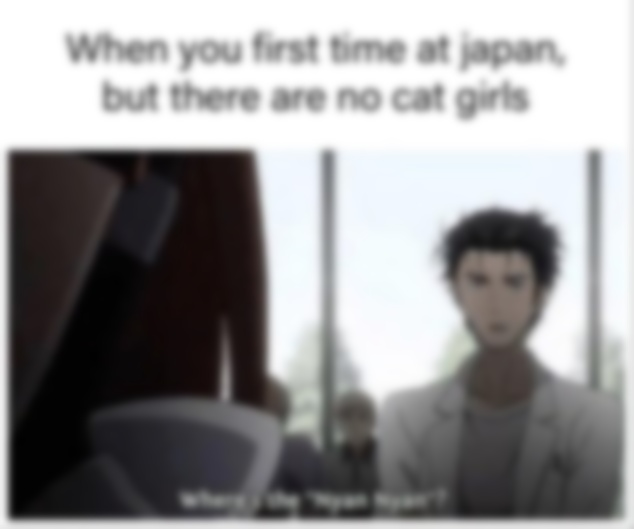
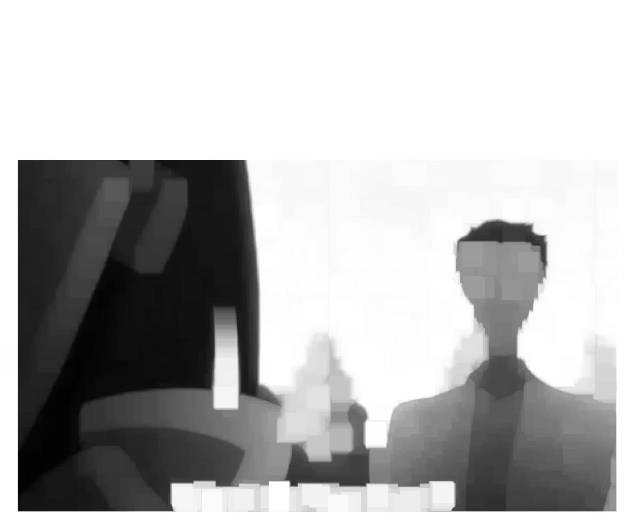
gestion des exceptions

diff --git a/blur.py b/blur.py
@@ -3,14 +3,62 @@ import os
 import logger
 
 
-def blur_pic(dossierE, dossierS):
+def blur_pic(dossierE, dossierS, blur_level):
+    if blur_level <= 0 or blur_level % 2 == 0:
+        print(f'blur_level invalide : {blur_level}')
+        return
 
     files = os.listdir(dossierE)
     for f in files:
-        print(f)
-        img = cv2.imread(f"{dossierE}/{f}")
-        blur = cv2.GaussianBlur(img, (35, 35), cv2.BORDER_DEFAULT)
-        cv2.imwrite(f"{dossierS}/{f}", blur)
-        logger.log(f' blur_pic ={f}')
-        break
+        if f.endswith('.jpg'):
+            print("1er if (pour .jpg)")
+            try:
+                print(f)
+                img = cv2.imread(f"{dossierE}/{f}")
+                blur = cv2.GaussianBlur(img, (blur_level, blur_level), cv2.BORDER_DEFAULT)
+                cv2.imwrite(f"{dossierS}/{f}", blur)
+                logger.log(f' blur_pic ={f}')
+            except NameError as e:
+                print(f"image inexistante, erreur : {e}")
+        elif f.endswith('.jpeg'):
+            print("elif (pour .jpeg)")
+            try:
+                print(f)
+                img = cv2.imread(f"{dossierE}/{f}")
+                blur = cv2.GaussianBlur(img, (blur_level, blur_level), cv2.BORDER_DEFAULT)
+                cv2.imwrite(f"{dossierS}/{f}", blur)
+                logger.log(f' blur_pic ={f}')
+            except NameError as e:
+                print(f"image inexistante, erreur : {e}")
+        elif f.endswith('.png'):
+            print("2ème elif (pour .png)")
+            try:
+                print(f)
+                img = cv2.imread(f"{dossierE}/{f}")
+                blur = cv2.GaussianBlur(img, (blur_level, blur_level), cv2.BORDER_DEFAULT)
+                cv2.imwrite(f"{dossierS}/{f}", blur)
+                logger.log(f' blur_pic ={f}')
+            except NameError as e:
+                print(f"image inexistante, erreur : {e}")
+        else:
+            print("else   Erreur : Le fichier que vous essayez d'ouvrir n'est pas une image.")
+            print(f)
+
+
+
+
+
+
+
+
+
+
+
+
+
+
+
+
+
+
 

diff --git a/dilatation.py b/dilatation.py
@@ -9,11 +9,51 @@ def dilatation_pic(dossierE, dossierS):
     kernel = np.ones((20, 20), np.uint8)
     print('coucou')
     for f in files:
-        print(f)
-        img = cv2.imread(f"{dossierE}/{f}")
-        dilation = cv2.dilate(img, kernel, 20)
-        cv2.imwrite(f"{dossierS}/{f}", dilation)
-        logger.log(f'dilatation_pic={f}')
-        break
+        if f.endswith('.jpg'):
+            print("1er if (pour .jpg)")
+            try:
+                print(f)
+                img = cv2.imread(f"{dossierE}/{f}")
+                dilation = cv2.dilate(img, kernel, 20)
+                cv2.imwrite(f"{dossierS}/{f}", dilation)
+                logger.log(f'dilatation_pic={f}')
+            except NameError as e:
+                print(f"image inexistante, erreur : {e}")
+        elif f.endswith('.jpeg'):
+            print("elif (pour .jpeg)")
+            try:
+                print(f)
+                img = cv2.imread(f"{dossierE}/{f}")
+                dilation = cv2.dilate(img, kernel, 20)
+                cv2.imwrite(f"{dossierS}/{f}", dilation)
+                logger.log(f'dilatation_pic={f}')
+            except NameError as e:
+                print(f"image inexistante, erreur : {e}")
+        elif f.endswith('.png'):
+            print("2ème elif (pour .png)")
+            try:
+                print(f)
+                img = cv2.imread(f"{dossierE}/{f}")
+                dilation = cv2.dilate(img, kernel, 20)
+                cv2.imwrite(f"{dossierS}/{f}", dilation)
+                logger.log(f'dilatation_pic={f}')
+            except NameError as e:
+                print(f"image inexistante, erreur : {e}")
+        else:
+            print("else   Erreur : Le fichier que vous essayez d'ouvrir n'est pas une image.")
+            print(f)
+
+
+
+
+
+
+
+
+
+
+
+
+
 
 

diff --git a/gray.py b/gray.py
@@ -7,9 +7,49 @@ import logger
 def gray_pic(dossierE, dossierS):
     files = os.listdir(dossierE)
     for f in files:
-        print(f)
-        img = cv2.imread(f"{dossierE}/{f}")
-        gray = cv2.cvtColor(img, cv2.COLOR_BGR2GRAY)
-        cv2.imwrite(f"{dossierS}/{f}", gray)
-        logger.log(f'gray_pic={f}')
-        break
+        if f.endswith('.jpg'):
+            print("1er if (pour .jpg)")
+            try:
+                print(f)
+                img = cv2.imread(f"{dossierE}/{f}")
+                gray = cv2.cvtColor(img, cv2.COLOR_BGR2GRAY)
+                cv2.imwrite(f"{dossierS}/{f}", gray)
+                logger.log(f'gray_pic={f}')
+            except NameError as e:
+                print(f"image inexistante, erreur : {e}")
+        elif f.endswith('.jpeg'):
+            print("elif (pour .jpeg)")
+            try:
+                print(f)
+                img = cv2.imread(f"{dossierE}/{f}")
+                gray = cv2.cvtColor(img, cv2.COLOR_BGR2GRAY)
+                cv2.imwrite(f"{dossierS}/{f}", gray)
+                logger.log(f'gray_pic={f}')
+            except NameError as e:
+                print(f"image inexistante, erreur : {e}")
+        elif f.endswith('.png'):
+            print("2ème elif (pour .png)")
+            try:
+                print(f)
+                img = cv2.imread(f"{dossierE}/{f}")
+                gray = cv2.cvtColor(img, cv2.COLOR_BGR2GRAY)
+                cv2.imwrite(f"{dossierS}/{f}", gray)
+                logger.log(f'gray_pic={f}')
+            except NameError as e:
+                print(f"image inexistante, erreur : {e}")
+        else:
+            print("else   Erreur : Le fichier que vous essayez d'ouvrir n'est pas une image.")
+            print(f)
+
+
+
+
+
+
+
+
+
+
+
+
+

diff --git a/main.py b/main.py
@@ -8,37 +8,21 @@ import logger
 import numpy as np
 import os
 
-
 import numpy
 #<<<<<<< Updated upstream
 
-
 dossierE = "imgs"
 dossierS = "ImgsModif"
+blur_level = 11
 
-blur_pic(dossierE, dossierS)
+blur_pic(dossierE, dossierS, blur_level)
 dilatation_pic(dossierE,dossierS)
 gray_pic(dossierS, dossierS)
-
-
-
-
-
-
-
-
 
 
 image = cv2.imread('imgs/image1.jpg')
 image_gray= cv2.cvtColor(image, cv2.COLOR_BGR2GRAY)
 cv2.imwrite('ImgsModif/image1.jpg', image_gray)
-
-
-
-
-
-
-
 
 
 
